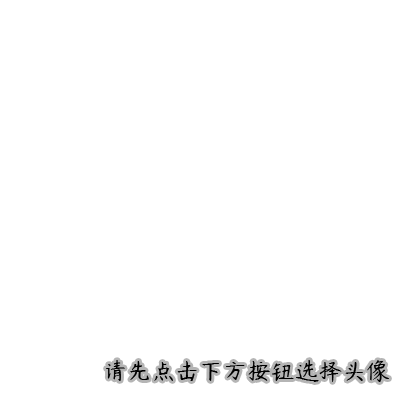
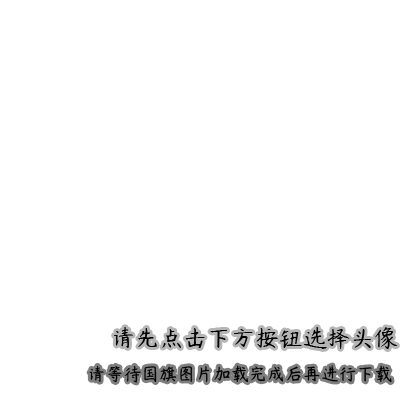
i

Changed region(s): [[0.21, 0.81, 1.0, 0.96]]

diff --git a/css/view.css b/css/view.css
@@ -177,8 +177,8 @@ button {
 .sy {
     position: fixed;
     left: 0px;
-    color: rgba(66, 66, 66, 0.2);
-    font-size: xx-small;
+    color: rgba(66, 66, 66, 0.33);
+    font-size: x-small;
     z-index: 1919810;
 }
 
